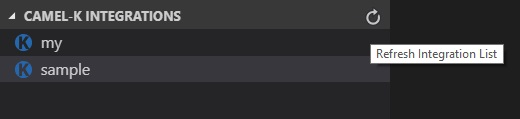
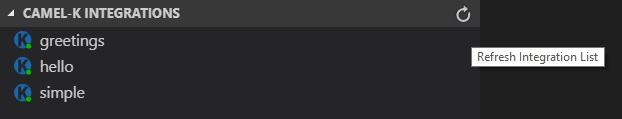
issue #55 - added additional status bar updates and running/error indicators in the integrations view -added new setting to turn off status bar messages -fixed small issue with message on follow log error  -addressed small issues from code review -updated readme

diff --git a/src/extension.ts b/src/extension.ts
@@ -32,6 +32,7 @@ let outputChannelMap : Map<string, vscode.OutputChannel>;
 let curlCommand : string = '/bin/sh';
 let curlOption : string = '-c';
 let proxyPort : number;
+let showStatusBar : boolean;
 
 // This extension offers basic integration with Camel-K (https://github.com/apache/camel-k) on two fronts.
 
@@ -44,6 +45,18 @@ export function activate(context: vscode.ExtensionContext) {
 		curlCommand = 'cmd';
 		curlOption = '/c';
 	}
+	// process the workspace setting indicating whether we should use the proxy or CLI
+	let statusBarSetting = vscode.workspace.getConfiguration().get('camelk.integrations.showStatusBarMessages') as boolean;
+	showStatusBar = statusBarSetting;
+
+	vscode.workspace.onDidChangeConfiguration(() => {
+		let statusBarSetting = vscode.workspace.getConfiguration().get('camelk.integrations.showStatusBarMessages') as boolean;
+		showStatusBar = statusBarSetting;
+		if (!showStatusBar) {
+			hideStatusLine();
+		}
+	});	
+
 
 	// process the workspace setting indicating whether we should use the proxy or CLI
 	let proxySetting = vscode.workspace.getConfiguration().get('camelk.integrations.useProxy') as boolean;
@@ -83,6 +96,7 @@ export function activate(context: vscode.ExtensionContext) {
 	// create the integration view action -- remove
 	vscode.commands.registerCommand('camelk.integrations.remove', async (node: TreeNode) => {
 		if (node && node.label) {
+			setStatusLineMessage(`Removing Camel-K Integration...`);
 			let integrationName : string = node.label;
 			if (useProxy) {
 				utils.shareMessage(mainOutputChannel, 'Removing ' + integrationName + ' via Kubernetes Rest Delete');
@@ -106,6 +120,7 @@ export function activate(context: vscode.ExtensionContext) {
 				});
 				await removeOutputChannelForIntegrationViaKubectl(integrationName);
 			}
+			hideStatusLine();
 			camelKIntegrationsProvider.refresh();
 		}
 	});
@@ -113,6 +128,7 @@ export function activate(context: vscode.ExtensionContext) {
 	// create the integration view action -- start log
 	vscode.commands.registerCommand('camelk.integrations.log', async (node: TreeNode) => {
 		if (node && node.label) {
+			setStatusLineMessage(`Retrieving Camel-K Integration log...`);
 			let integrationName : string = node.label;
 			if (useProxy) {
 				utils.shareMessage(mainOutputChannel, 'Connecting to the log for ' + integrationName + ' via Kubernetes Rest');
@@ -126,7 +142,7 @@ export function activate(context: vscode.ExtensionContext) {
 								});
 							})
 							.catch( (error) => {
-								utils.shareMessage(mainOutputChannel, `No pod found for integration: ${output}`);
+								utils.shareMessage(mainOutputChannel, `No pod found for integration: ${integrationName}`);
 							});
 						})
 					.catch( (error) => {
@@ -152,21 +168,24 @@ export function activate(context: vscode.ExtensionContext) {
 								console.log("[CLOSING] " + `${code} / ${signal} \n`);
 							});
 						} else {
-							utils.shareMessage(mainOutputChannel, `No deployed integration found for: ${output} \n`);
+							utils.shareMessage(mainOutputChannel, `No deployed integration found for: ${integrationName} \n`);
 						}
 					}).catch( (error) => {
 						utils.shareMessage(mainOutputChannel, `rest error: ${error} \n`);
 					});
 			}
+			hideStatusLine();
 		}
 	});
 
 	// create the integration view action -- start proxy
 	vscode.commands.registerCommand('camelk.integrations.startproxy', async (node: TreeNode) => {
+		setStatusLineMessage(`Starting kubectl proxy...`);
 		await startKubeProxy()
 			.then ( () => {
 				let proxy = utils.createBaseProxyURL();
 				utils.shareMessage(mainOutputChannel, (`Started kubectl proxy at URL ${proxy}`));
+				hideStatusLine();
 				if (useProxy) {
 					// populate the initial tree
 					camelKIntegrationsProvider.refresh();
@@ -175,6 +194,7 @@ export function activate(context: vscode.ExtensionContext) {
 			.catch( (error) => {
 				utils.shareMessage(mainOutputChannel, ("kubectl execution return code: " + error));
 		});
+		hideStatusLine();
 	});
 
 	// create the integration view action -- start new integration
@@ -183,6 +203,20 @@ export function activate(context: vscode.ExtensionContext) {
 
 	// populate the initial tree
 	camelKIntegrationsProvider.refresh();
+}
+
+export function setStatusLineMessage( message : string) {
+	if (myStatusBarItem && message && showStatusBar) {
+		myStatusBarItem.text = message;
+		myStatusBarItem.show();
+	}
+}
+
+export function hideStatusLine() {
+	if (myStatusBarItem) {
+		myStatusBarItem.hide();
+	}
+
 }
 
 // find an output channel by name in the map and remove it
@@ -242,6 +276,7 @@ function getPodLogViaCurl(podName : string): Promise<boolean> {
 			let podsURL = utils.createCamelKPodLogURL(podName);
 			await utils.pingTheURL(podsURL).catch( (error) =>  {
 				reject(error);
+				return false;
 			});
 			let podOutputChannel = getOutputChannel(podName);
 			podOutputChannel.show();
@@ -324,6 +359,7 @@ async function stopIntegrationViaRest(integrationName: string) : Promise<any>{
 // start an integration from a file
 function startIntegration(context: vscode.Uri): Promise<string> {
 	return new Promise <string> ( async (resolve, reject) => {
+		setStatusLineMessage(`Starting new Camel-K Integration...`);
 		if (useProxy) {
 			utils.shareMessage(mainOutputChannel, "Starting new integration via Kubernetes rest API");
 			createNewIntegrationViaRest(context)
@@ -333,11 +369,13 @@ function startIntegration(context: vscode.Uri): Promise<string> {
 						reject();
 					}
 					resolve();
+					hideStatusLine();
 					return success;
 				})
 				.catch(err => {
 					utils.shareMessage(mainOutputChannel, "Kamel execution return code: " + err);
 					reject();
+					hideStatusLine();
 					return err;
 				});
 		} else {
@@ -349,11 +387,13 @@ function startIntegration(context: vscode.Uri): Promise<string> {
 						reject();
 					}
 					resolve();
+					hideStatusLine();
 					return success;
 				})
 				.catch(err => {
 					utils.shareMessage(mainOutputChannel, ("Kamel execution return code: " + err));
 					reject();
+					hideStatusLine();
 					return err;
 				});
 			}

diff --git a/src/CamelKNodeProvider.ts b/src/CamelKNodeProvider.ts
@@ -83,8 +83,7 @@ export class CamelKNodeProvider implements vscode.TreeDataProvider<TreeNode> {
 	// trigger a refresh event in VSCode
 	public async refresh(): Promise<void> {
 		let oldCount = this.treeNodes.length;
-		extension.myStatusBarItem.text = `Refreshing Camel-K Integrations view`;
-		extension.myStatusBarItem.show();
+		extension.setStatusLineMessage(`Refreshing Camel-K Integrations view...`);
 		this.resetList();
 		let inaccessible = false;
 		if (this.retrieveIntegrations) {
@@ -140,7 +139,7 @@ export class CamelKNodeProvider implements vscode.TreeDataProvider<TreeNode> {
 				retryTries++;
 			}
 		}
-		extension.myStatusBarItem.hide();
+		extension.hideStatusLine();
 		this._onDidChangeTreeData.fire();
 		Promise.resolve();
 		let newCount = this.treeNodes.length;
@@ -167,12 +166,22 @@ export class CamelKNodeProvider implements vscode.TreeDataProvider<TreeNode> {
 		if (output) {
 			let lines = output.split('\n');
 			for (let entry of lines) {
-				let line = entry.split(' ');
-				if (line[0].toUpperCase().startsWith('NAME') || line[0].trim().length === 0) {
+				let line = entry.split('  ');
+				let cleanLine = [];
+				for (var i=0; i < line.length; i++) {
+					if (line[i].trim().length === 0) {
+						continue;
+					}
+					cleanLine.push(line[i].trim());
+				}
+				let firstString : string = cleanLine[0];
+				if (firstString === undefined || firstString.toUpperCase().startsWith('NAME') || firstString.trim().length === 0) {
 					continue;
 				}
-				let integrationName = line[0];
-				let newNode = new TreeNode("string", integrationName, vscode.TreeItemCollapsibleState.None);
+
+				let integrationName = cleanLine[0];
+				let status = cleanLine[1];
+				let newNode = new TreeNode("string", integrationName, status, vscode.TreeItemCollapsibleState.None);
 				if (this.doesNodeExist(this.treeNodes, newNode) === false) {
 					this.addChild(this.treeNodes, newNode, true);
 				}
@@ -187,7 +196,7 @@ export class CamelKNodeProvider implements vscode.TreeDataProvider<TreeNode> {
 			let o = JSON.parse(temp);
 			for (var i=0; i<o.items.length;i++) {
 				var integrationName = o.items[i].metadata.name;
-				let newNode = new TreeNode("string", integrationName, vscode.TreeItemCollapsibleState.None);
+				let newNode = new TreeNode("string", integrationName, 'Running', vscode.TreeItemCollapsibleState.None);
 				if (this.doesNodeExist(this.treeNodes, newNode) === false) {
 					this.addChild(this.treeNodes, newNode, true);
 				}
@@ -248,17 +257,28 @@ export class CamelKNodeProvider implements vscode.TreeDataProvider<TreeNode> {
 // simple tree node for our integration view
 export class TreeNode extends vscode.TreeItem {
 	type: string;
+	status: string;
 
 	constructor(
 		type: string,
 		label: string,
+		status: string,
 		collapsibleState: vscode.TreeItemCollapsibleState
 	) {
 		super(label, collapsibleState);
 		this.type = type;
-		this.iconPath = {
-			light: path.join(__filename, '..', '..', 'resources', 'round-k-transparent-16.svg'),
-			dark: path.join(__filename, '..', '..', 'resources', 'round-k-transparent-16.svg')
-		};
+		this.status = status;
+		this.iconPath = this.getIconForPodStatus(this.status);
+		this.tooltip = `Status: ${this.status}`;
+	}
+
+	getIconForPodStatus(status: string):  object {
+		let newIcon : object;
+		if (status.toLowerCase().startsWith("running")) {
+			newIcon = vscode.Uri.file(path.join(__dirname, "../resources/round-k-transparent-16-running.svg"));
+		} else {
+			newIcon = vscode.Uri.file(path.join(__dirname, "../resources/round-k-transparent-16-error.svg"));
+		}
+		return newIcon;
 	}
 }

diff --git a/src/test/integrationExplorer.test.ts b/src/test/integrationExplorer.test.ts
@@ -42,7 +42,7 @@ suite('Camel-k Integrations View', () => {
 		integrationExplorer.resetList();
 		const refreshStub = sandbox.stub(integrationExplorer, 'refresh');
 		var children = await integrationExplorer.getChildren();
-		const newNode = new TreeNode("string", "mockIntegration", vscode.TreeItemCollapsibleState.None);
+		const newNode = new TreeNode("string", "mockIntegration", "running", vscode.TreeItemCollapsibleState.None);
 		integrationExplorer.addChild(children, newNode, false);
 		expect(children.length).equals(1);
 		expect(children[0].label).equals("mockIntegration");
@@ -53,7 +53,7 @@ suite('Camel-k Integrations View', () => {
 		integrationExplorer.resetList();
 		const refreshStub = sandbox.stub(integrationExplorer, 'refresh');
 		var children = await integrationExplorer.getChildren();
-		const newNode = new TreeNode("string", "mockIntegration", vscode.TreeItemCollapsibleState.None);
+		const newNode = new TreeNode("string", "mockIntegration", "running", vscode.TreeItemCollapsibleState.None);
 		integrationExplorer.addChild(children, newNode);
 		integrationExplorer.removeChild(children, newNode);
 		expect(refreshStub).calledTwice;

diff --git a/README.md b/README.md
@@ -43,7 +43,7 @@ If Camel-K (Kamel) is in the system path, we can simply call the 'kamel' utility
 
 ![Run Menu](images/kubernetes-view-camelk-run-xml-menu.jpg)
 
-That launches my 'kamel' process from an XML file in the directory of the file (i.e. `kamel run --dev "filename"` or the equivalent Kubernetes rest call) or uses the Kubernetes Rest API to deploy the integration to the running Kubernetes system.
+That launches my 'kamel' process from an XML file in the directory of the file (i.e. `kamel run "filename"` or the equivalent Kubernetes rest call) or uses the Kubernetes Rest API to deploy the integration to the running Kubernetes system.
 
 There are two types of "output channels" providing details for the extension.
 
@@ -72,24 +72,42 @@ Note: Refreshing the view sometimes is delayed as we wait for pods to start. You
 
 ![Camel-K integrations view Refresh](images/camelk-integrations-view-refresh-action.jpg)
 
+Integrations in the list are decorated with a little dot indicating the status of the deployment. If green, the integration is in a "Running" state. If red, it is in other states such as "Building Kit" or "Error." And if you hover over the integration, the tooltip will show the status.
+
+![Camel-K integrations view Status tooltip](images/camelk-integrations-view-status-tooltip.jpg)
+
+### Camel-K Status Bar Messages
+
+While events are occurring such as the Camel-K Integrations view is being refreshed or a new Integration is being deployed, a status bar message will appear to offer an indication. This can be disabled in the extension settings.
+
+The extension shows status messages when:
+
+* Starting a new integration
+* Removing an integration
+* Refreshing the integrations view
+* Starting to follow an integration log
+* Starting a local Kubernetes proxy instance
+
+![Camel-K integrations Status Bar](images/camelk-integrations-status-bar.jpg)
+
 ## Camel-K Extension Settings
 
 To access the new extension settings, go to File->Preferences->Settings, then select "Extensions" and finally "Camel-K Integration Settings."
 
 ![Camel-K integrations view Settings](images/camelk-integrations-view-settings.jpg)
 
-* Proxy Namespace - Currently this drop-down has two values: default and syndesis. If we need to make this editable down the line, we can, but this was a good place to start.
-* Proxy URL - This setting corresponds to the server proxy for your Kubernetes service. It defaults to http://localhost:8000, but can be altered to any appropriate service URL. (See [Use an HTTP Proxy to Access the Kubernetes API)[https://kubernetes.io/docs/tasks/access-kubernetes-api/http-proxy-access-api/] for details on how to create the local proxy (i.e. 'kubectl proxy –port=8000') and "Starting a local Kubernetes proxy" below.)
+* Proxy Namespace - Currently this drop-down has two values: default and syndesis.
+* Proxy Port - Corresponds to the port of the Proxy URL to be used for accessing Kubernetes via Rest APIs. Defaults to 8000.
+* Proxy URL - This setting corresponds to the server proxy url for your Kubernetes service. It defaults to http://localhost, but can be altered to any appropriate service URL. It is combined with the port to construct URLs at runtime when starting the proxy and using proxy calls. (See [Use an HTTP Proxy to Access the Kubernetes API)[https://kubernetes.io/docs/tasks/access-kubernetes-api/http-proxy-access-api/] for details on how to create the local proxy (i.e. 'kubectl proxy –port=8000') and "Starting a local Kubernetes proxy" below.)
+* Show Status Bar Messages - Indicates whether to show messages in the status bar to indicate when the system is updating, such as when the Camel-K Integrations view is being refreshed or a new Integration is being deployed.
 * Use Proxy - This setting determines whether the Camel-K Integrations view retrieves the list of running integrations via the local 'kubectl' application or via the Kubernetes Rest API and calls through the Proxy URL/Namespace combination above. The ultimate URL becomes [proxyurl]/apis/camel.apache.org/v1alpha1/namespaces/[namespace]/integrations. 
 
 ## Starting a local Kubernetes proxy
 
 (Only available with the Minikube executable installed, but useful for local development.)
 
-We have created a new command available in the command palette (Ctrl+Shift+P or F1) called "Camel-K: Start the kubectl proxy server." This will start a new Kubernetes proxy using the Minikube executable ('kubectl proxy --port=8000) and refreshes the Camel-K Integrations view immediately. This command creates a local proxy at http://localhost:8000, which is the default value for Proxy URL in the extension settings.
+We have created a new command available in the command palette (Ctrl+Shift+P or F1) called "Camel-K: Start the kubectl proxy server." This will start a new Kubernetes proxy using the Minikube executable ('kubectl proxy --port=8000) and refreshes the Camel-K Integrations view immediately. This command creates a local proxy at the URL composed of the Proxy URL and Proxy Port set in the settings. For example, with the defaults the proxy URL becomes http://localhost:8000.
 
 ## Known Issues
 
 Here's the current list of issues we're working to resolve. If you find a new issue, please [create a new issue report in GitHub](https://github.com/camel-tooling/vscode-camelk/issues)!
-
-* Do not pollute all Groovy files with Camel-K [Issue #7](https://github.com/camel-tooling/vscode-camelk/issues/7) - this is also a problem for XML, JavaScript, and Java files at this time.
